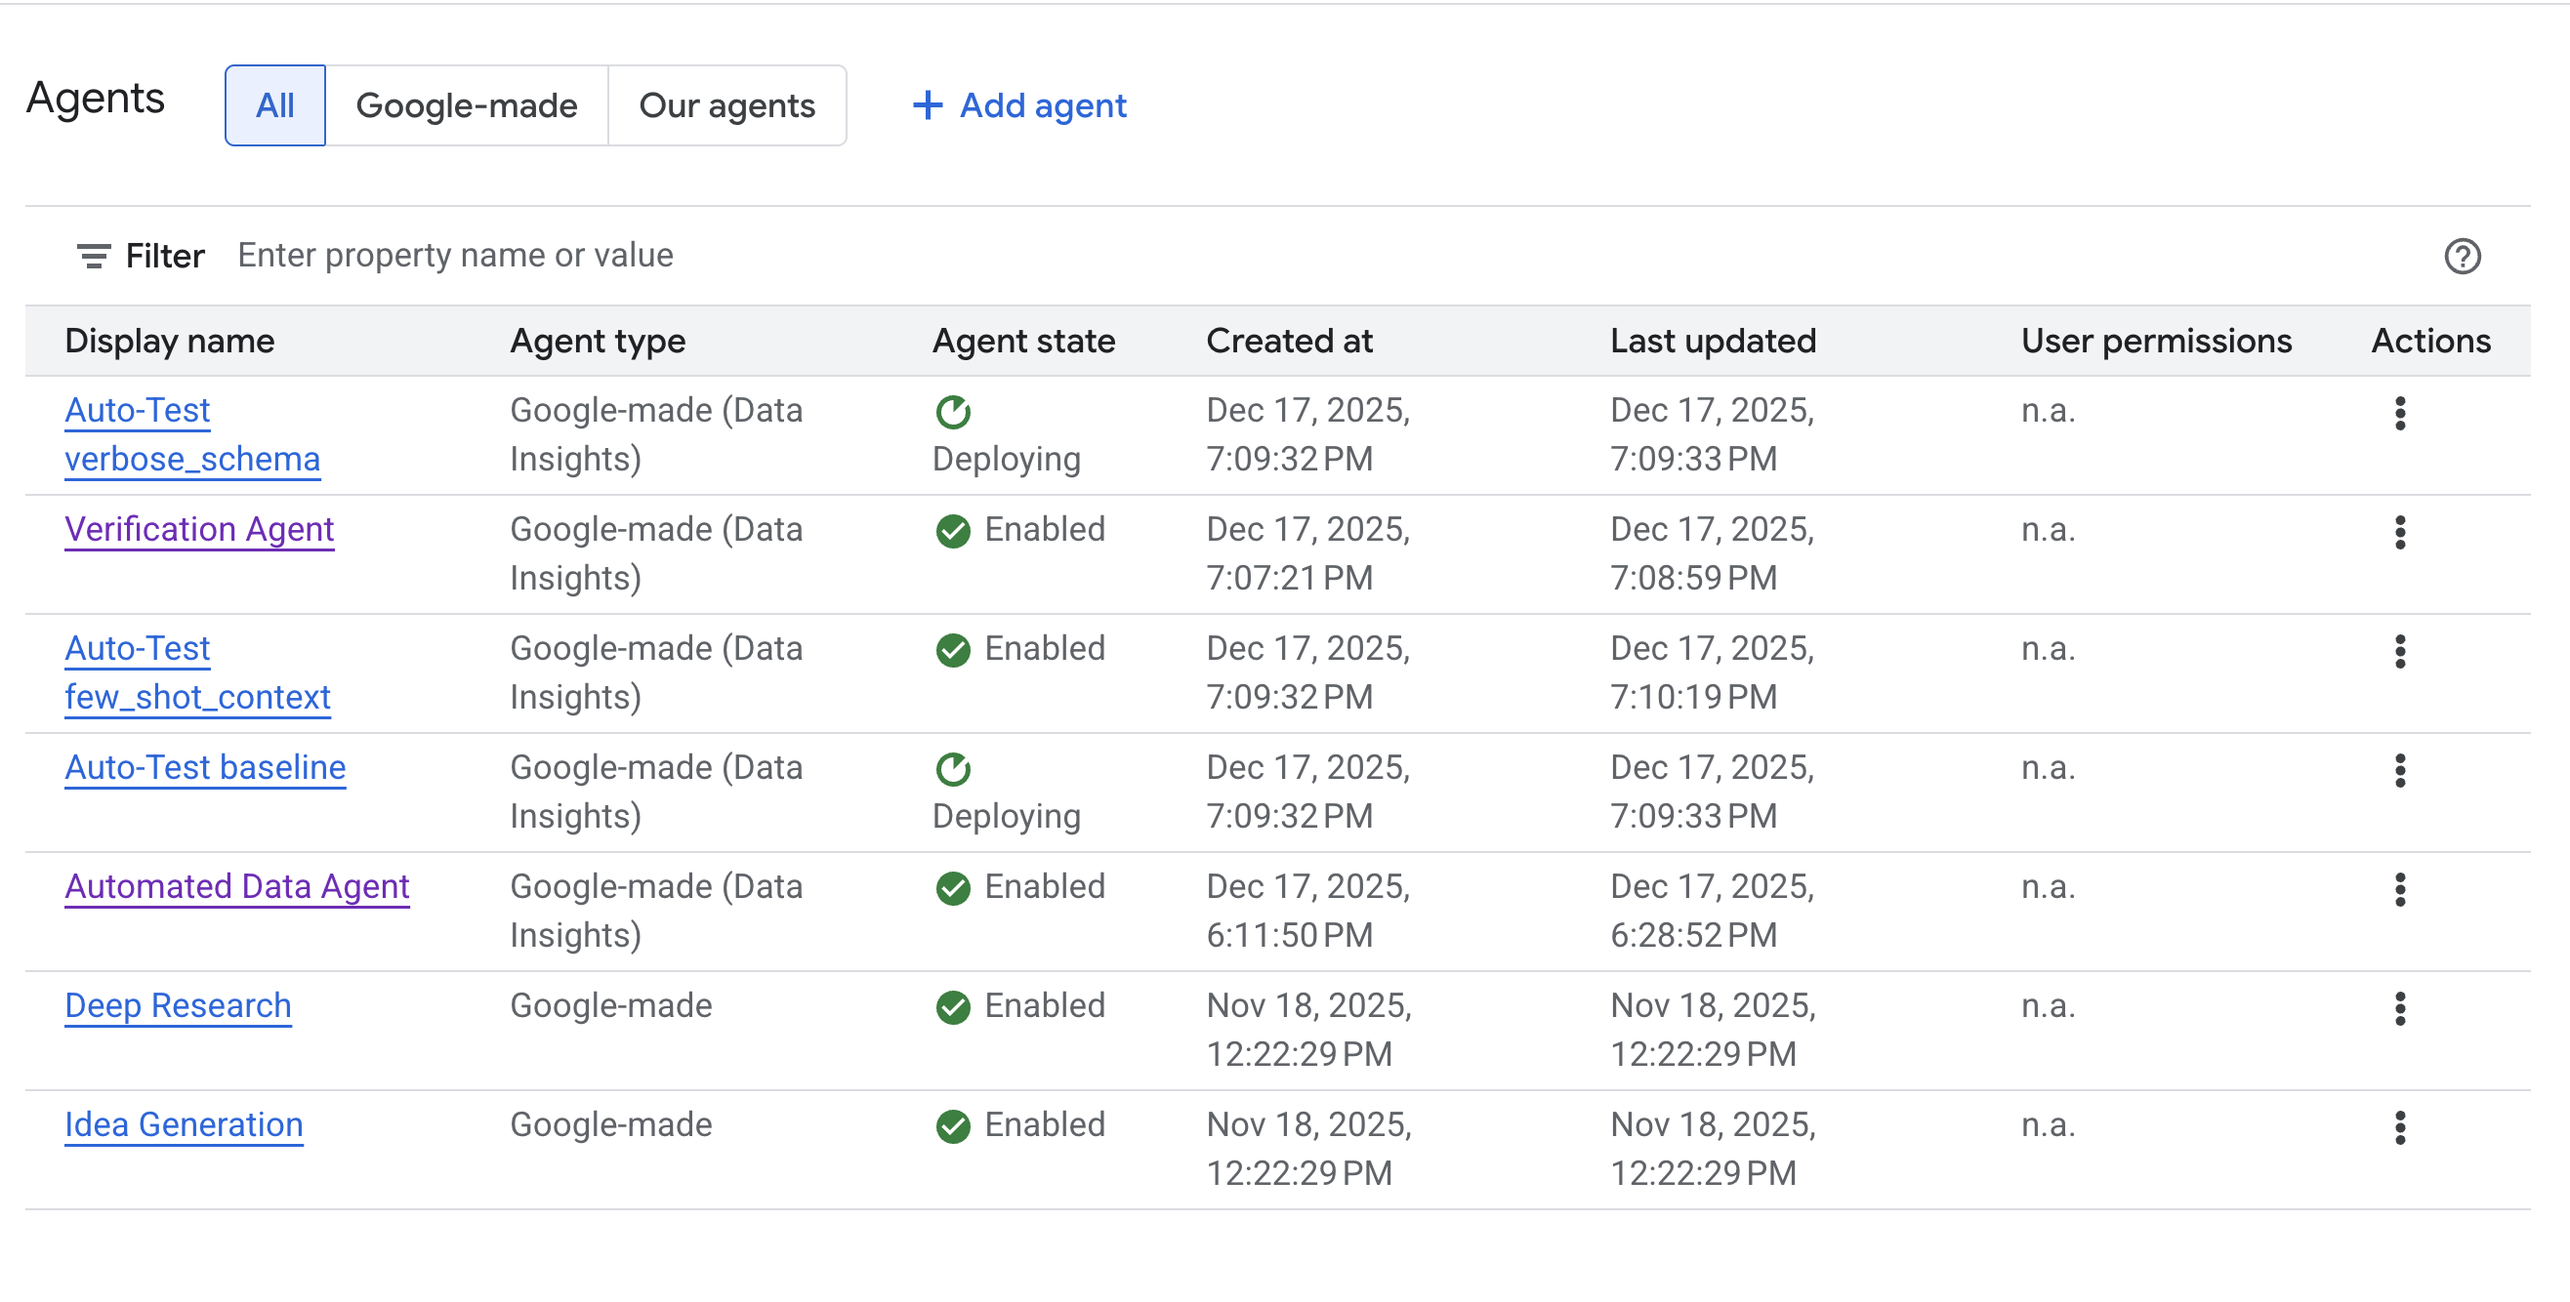
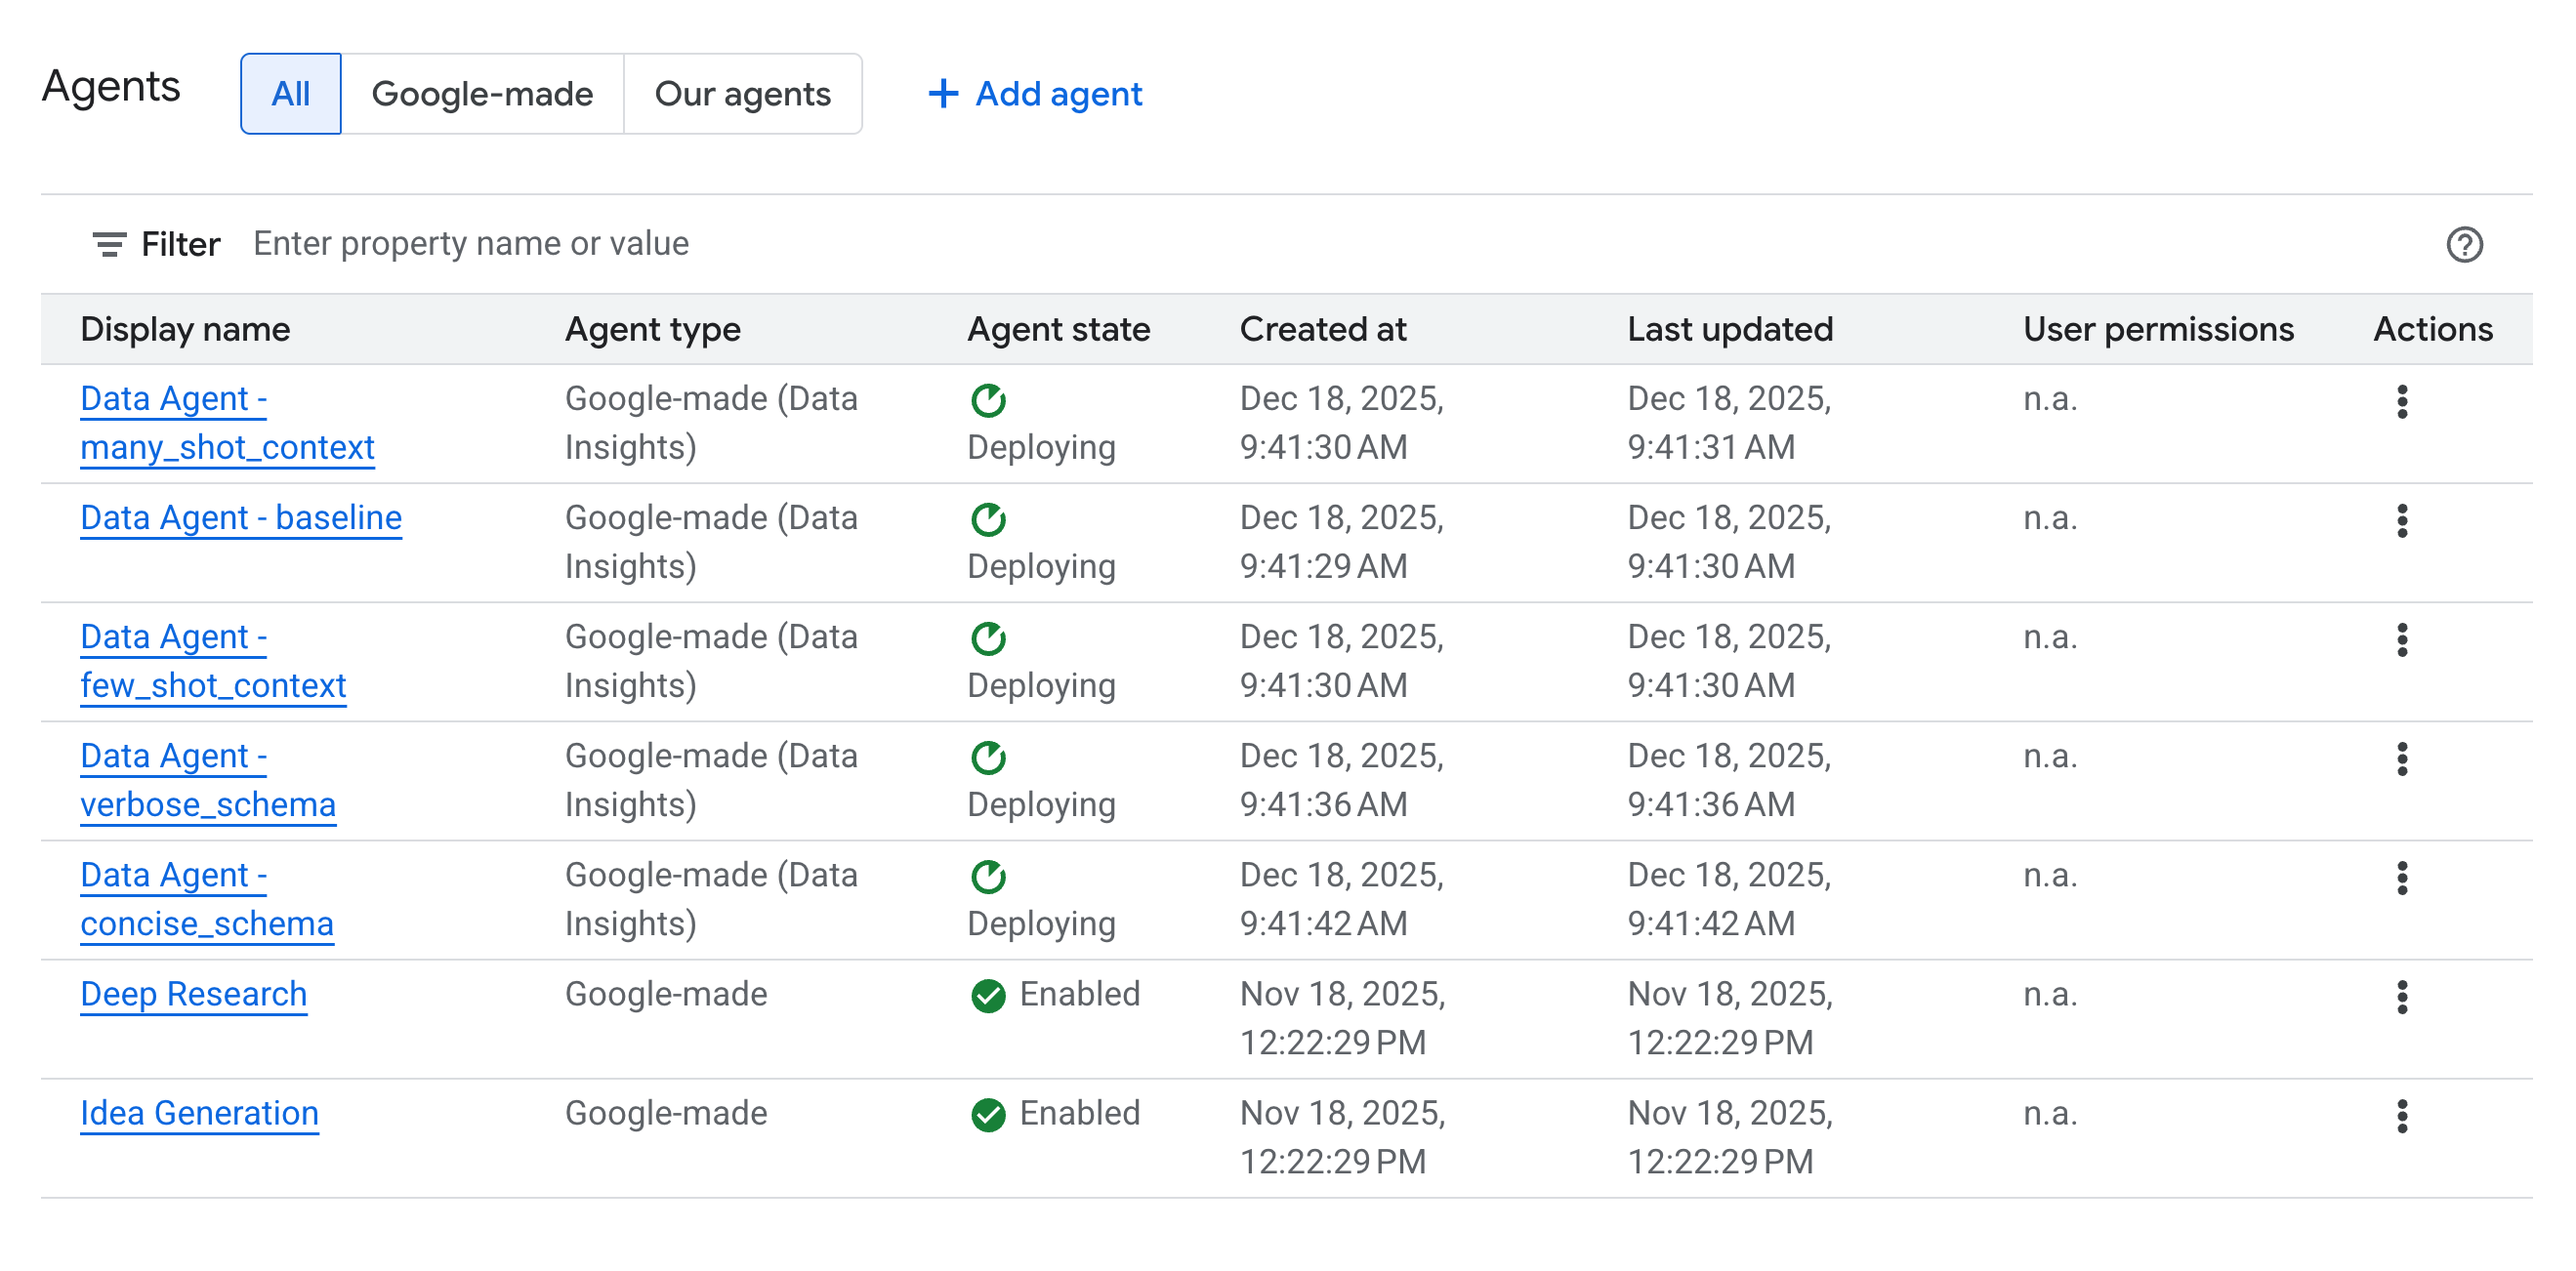
feat: Refactor agent configuration to use `dataScienceAgentConfig` and update deployment logic, add `.env.example`, and refresh README.

diff --git a/scripts/deploy_data_agent.py b/scripts/deploy_data_agent.py
@@ -131,25 +131,45 @@ def deploy_agents_from_config():
             delete_agent(existing_agent['name'], headers)
             existing_agent = None
         
-        # Prepare nl2sql_prompt and params for new agent creation
-        nl2sql_prompt = config.get("nl2sql_prompt", "")
-        params = config.get("params", {})
-        if "schema_context" in params:
-            nl2sql_prompt += "\n\nSchema Context:\n" + params["schema_context"]
-
         # Create Authorization
         auth_resource = create_authorization(project_id, location, headers, host)
 
-        # 2. Create Agent
-        print(f"Creating agent '{target_agent_display_name}'...")
-        
+        # Prepare data_science_config
         data_science_config = {
             "bq_project_id": project_id,
             "bq_dataset_id": bq_dataset_id,
-            "nl_query_config": {
-                "nl2sql_prompt": nl2sql_prompt
-            }
+            "nl_query_config": {}
         }
+        
+        # Check for new 'dataScienceAgentConfig' structure
+        if "dataScienceAgentConfig" in config:
+            ds_config = config["dataScienceAgentConfig"]
+            nl_query = ds_config.get("nlQueryConfig", {})
+            
+            if "nl2sqlPrompt" in nl_query:
+                data_science_config["nl_query_config"]["nl2sqlPrompt"] = nl_query["nl2sqlPrompt"]
+            if "nl2pyPrompt" in nl_query:
+                 data_science_config["nl_query_config"]["nl2pyPrompt"] = nl_query["nl2pyPrompt"]
+            if "nl2sqlExample" in nl_query:
+                 data_science_config["nl_query_config"]["nl2sqlExamples"] = nl_query["nl2sqlExample"]
+            if "schemaDescription" in nl_query:
+                 data_science_config["nl_query_config"]["schemaDescription"] = nl_query["schemaDescription"]
+        else:
+            # Legacy support
+            nl2sql_prompt = config.get("nl2sql_prompt", "")
+            params = config.get("params", {})
+            if "schema_context" in params:
+                nl2sql_prompt += "\n\nSchema Context:\n" + params["schema_context"]
+            
+            data_science_config["nl_query_config"]["nl2sqlPrompt"] = nl2sql_prompt
+            if "nl2py_prompt" in params:
+                 data_science_config["nl_query_config"]["nl2pyPrompt"] = params["nl2py_prompt"]
+            if "nl2sql_example" in params:
+                 data_science_config["nl_query_config"]["nl2sqlExample"] = params["nl2sql_example"]
+            if "schema_description" in params:
+                 data_science_config["nl_query_config"]["schemaDescription"] = params["schema_description"]
+
+
         
         payload = {
             "displayName": target_agent_display_name,

diff --git a/README.md b/README.md
@@ -2,6 +2,8 @@
 
 A comprehensive test harness for deploying, verifying, and benchmarking Google Cloud Data Insights Agents (DIA) in parallel. This tool allows you to validate agent configurations, test data routing, and measure performance using golden datasets.
 
+![Parallel Deployment Diagram](parallel_deployment.png)
+
 ## Features
 
 - **Multi-Variant Deployment**: Deploys 5 distinct agent configurations in parallel (Baseline, Few-Shot, Verbose Schema, Persona, Chain-of-Thought).
@@ -16,6 +18,8 @@ A comprehensive test harness for deploying, verifying, and benchmarking Google C
 - `uv` (recommended build tool) or `pip`
 - Google Cloud Project with Discovery Engine API enabled
 - `gcloud` CLI authenticated
+- **OAuth Resource**: You must create an OAuth client and secret for the agent to access BigQuery.
+  - Follow the guide to [Create Authorization Resource](https://docs.cloud.google.com/gemini/enterprise/docs/data-agent#auth-details).
 
 ## Installation
 
@@ -33,7 +37,11 @@ A comprehensive test harness for deploying, verifying, and benchmarking Google C
    ```
 
 3. **Configure Environment Variables**:
-   Create a `.env` file in the root directory:
+   Copy the example environment file:
+   ```bash
+   cp .env.example .env
+   ```
+   Edit `.env` with your project details:
    ```env
    GOOGLE_CLOUD_PROJECT=your-project-id
    DIA_LOCATION=global
@@ -42,6 +50,7 @@ A comprehensive test harness for deploying, verifying, and benchmarking Google C
    OAUTH_CLIENT_ID=your-oauth-client-id
    OAUTH_SECRET=your-oauth-client-secret
    ```
+   > **Note**: For all available configuration options, refer to the [Data Agent Documentation](https://docs.cloud.google.com/gemini/enterprise/docs/data-agent).
 
 ## Usage
 
